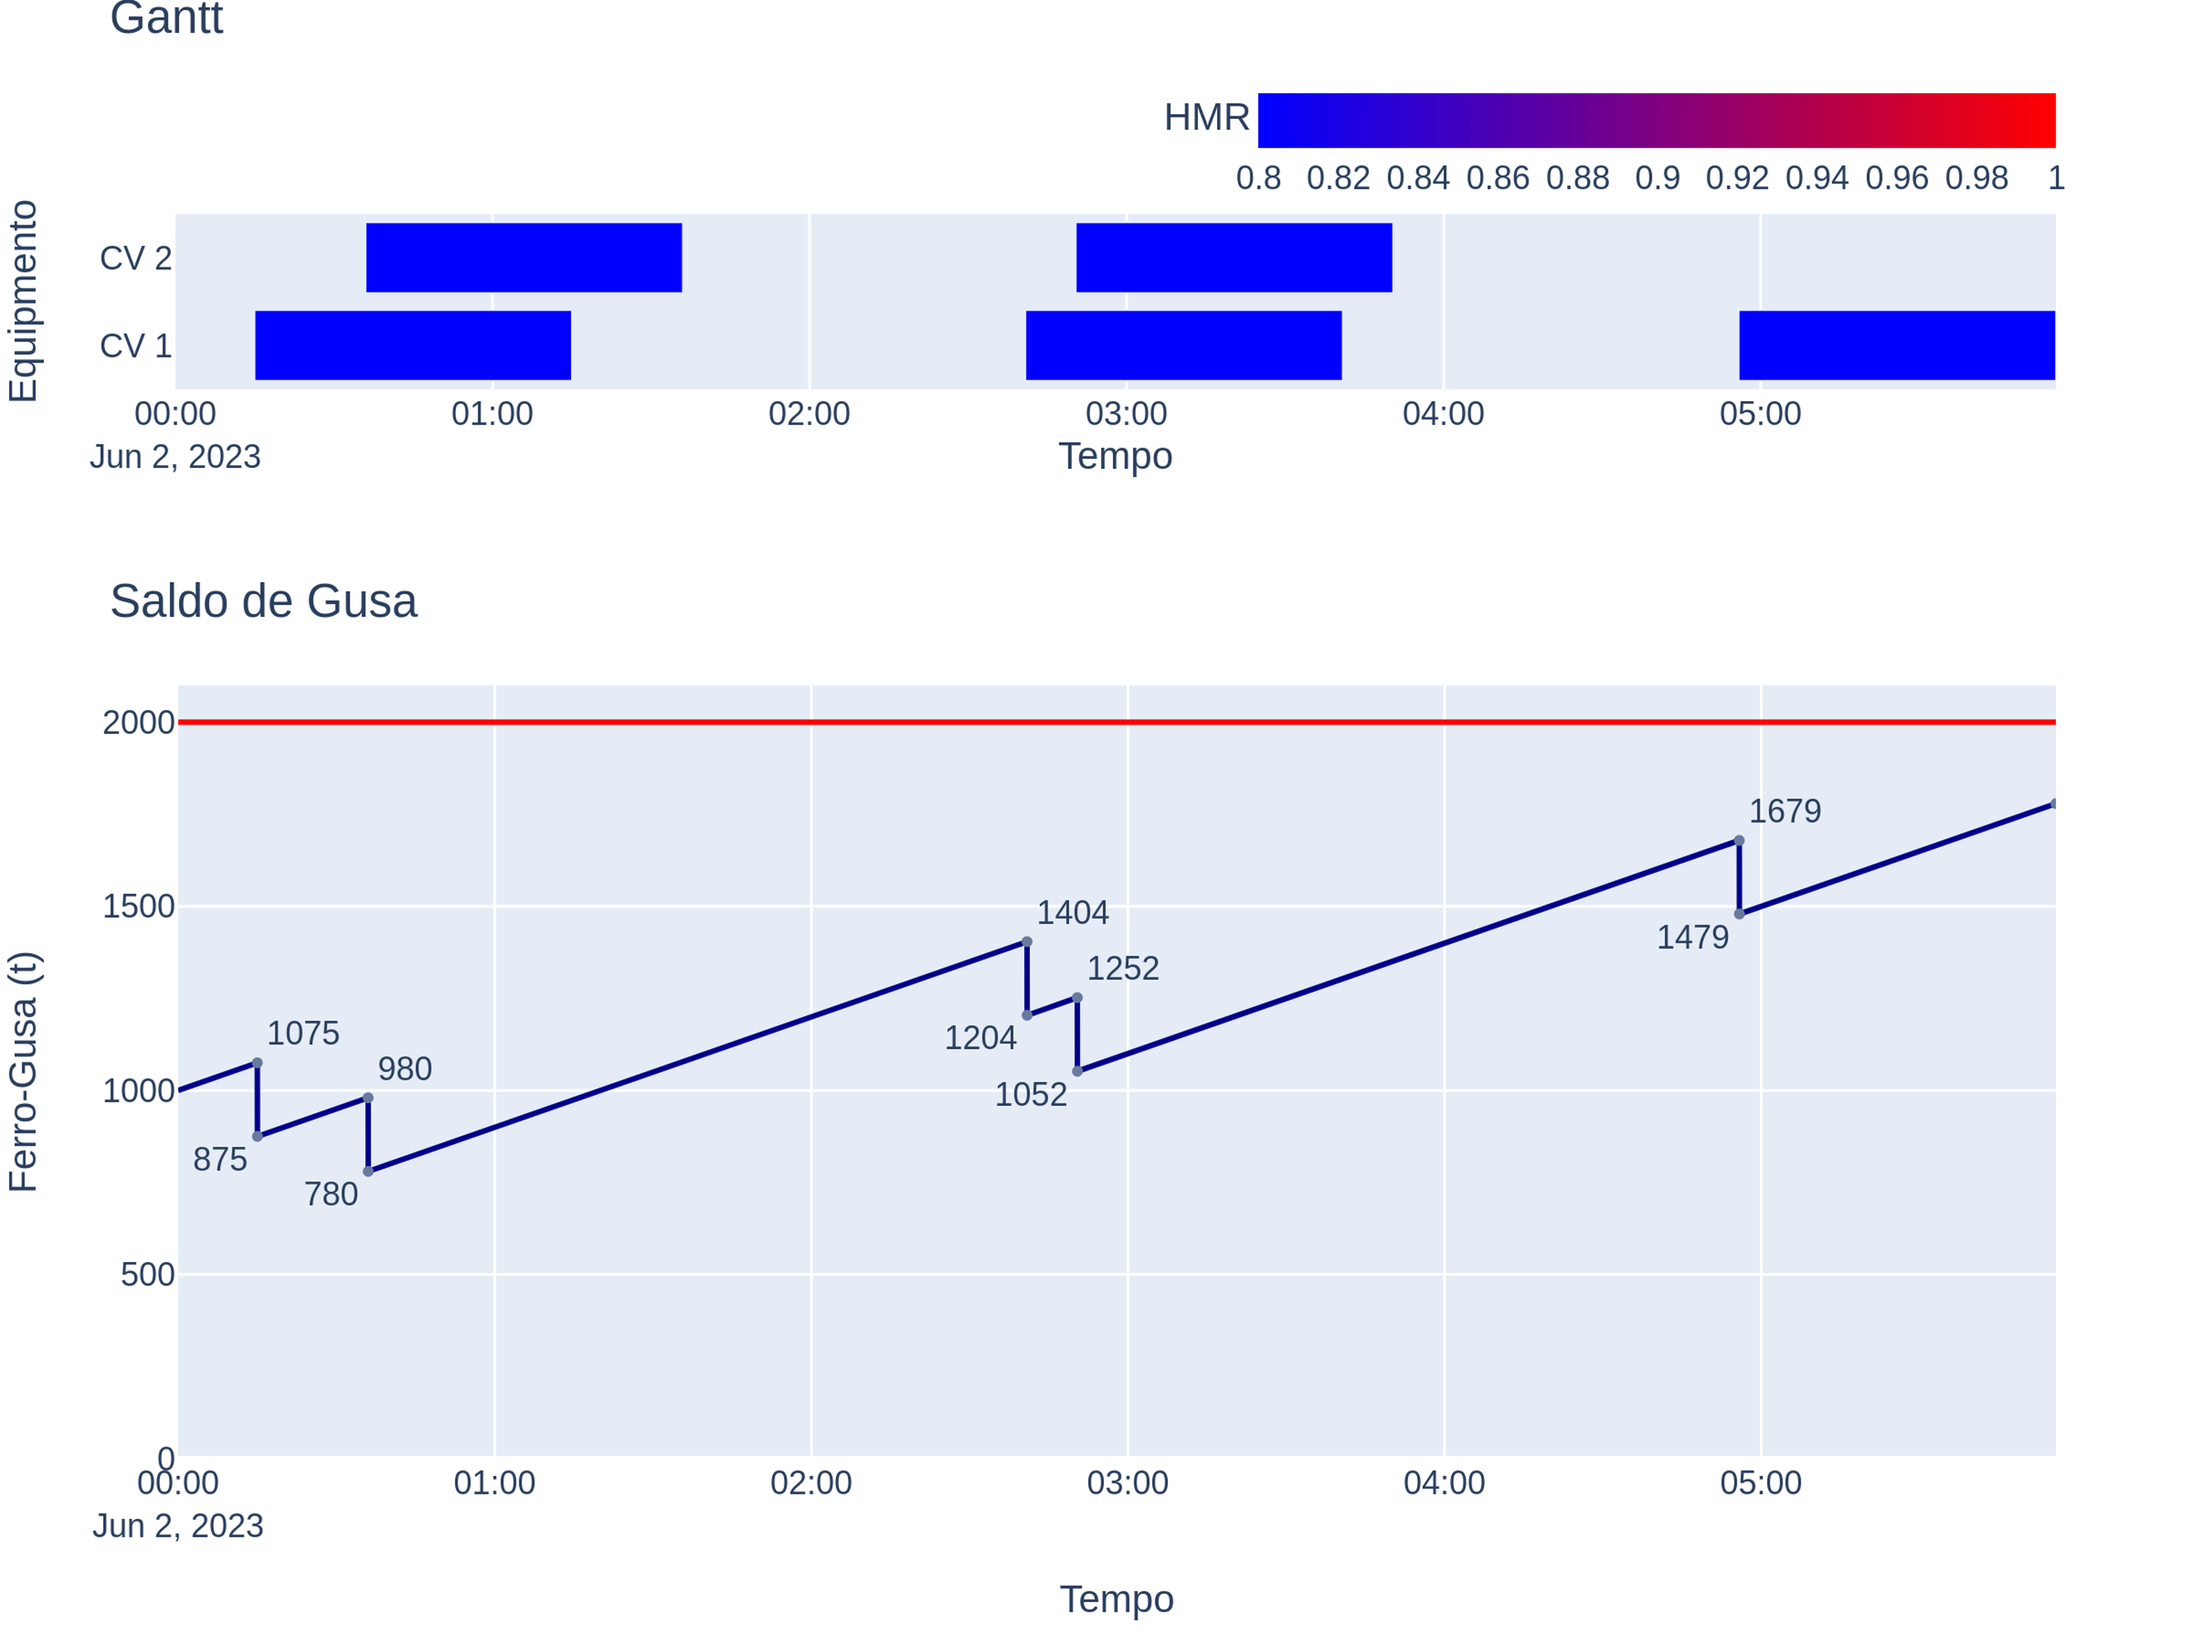
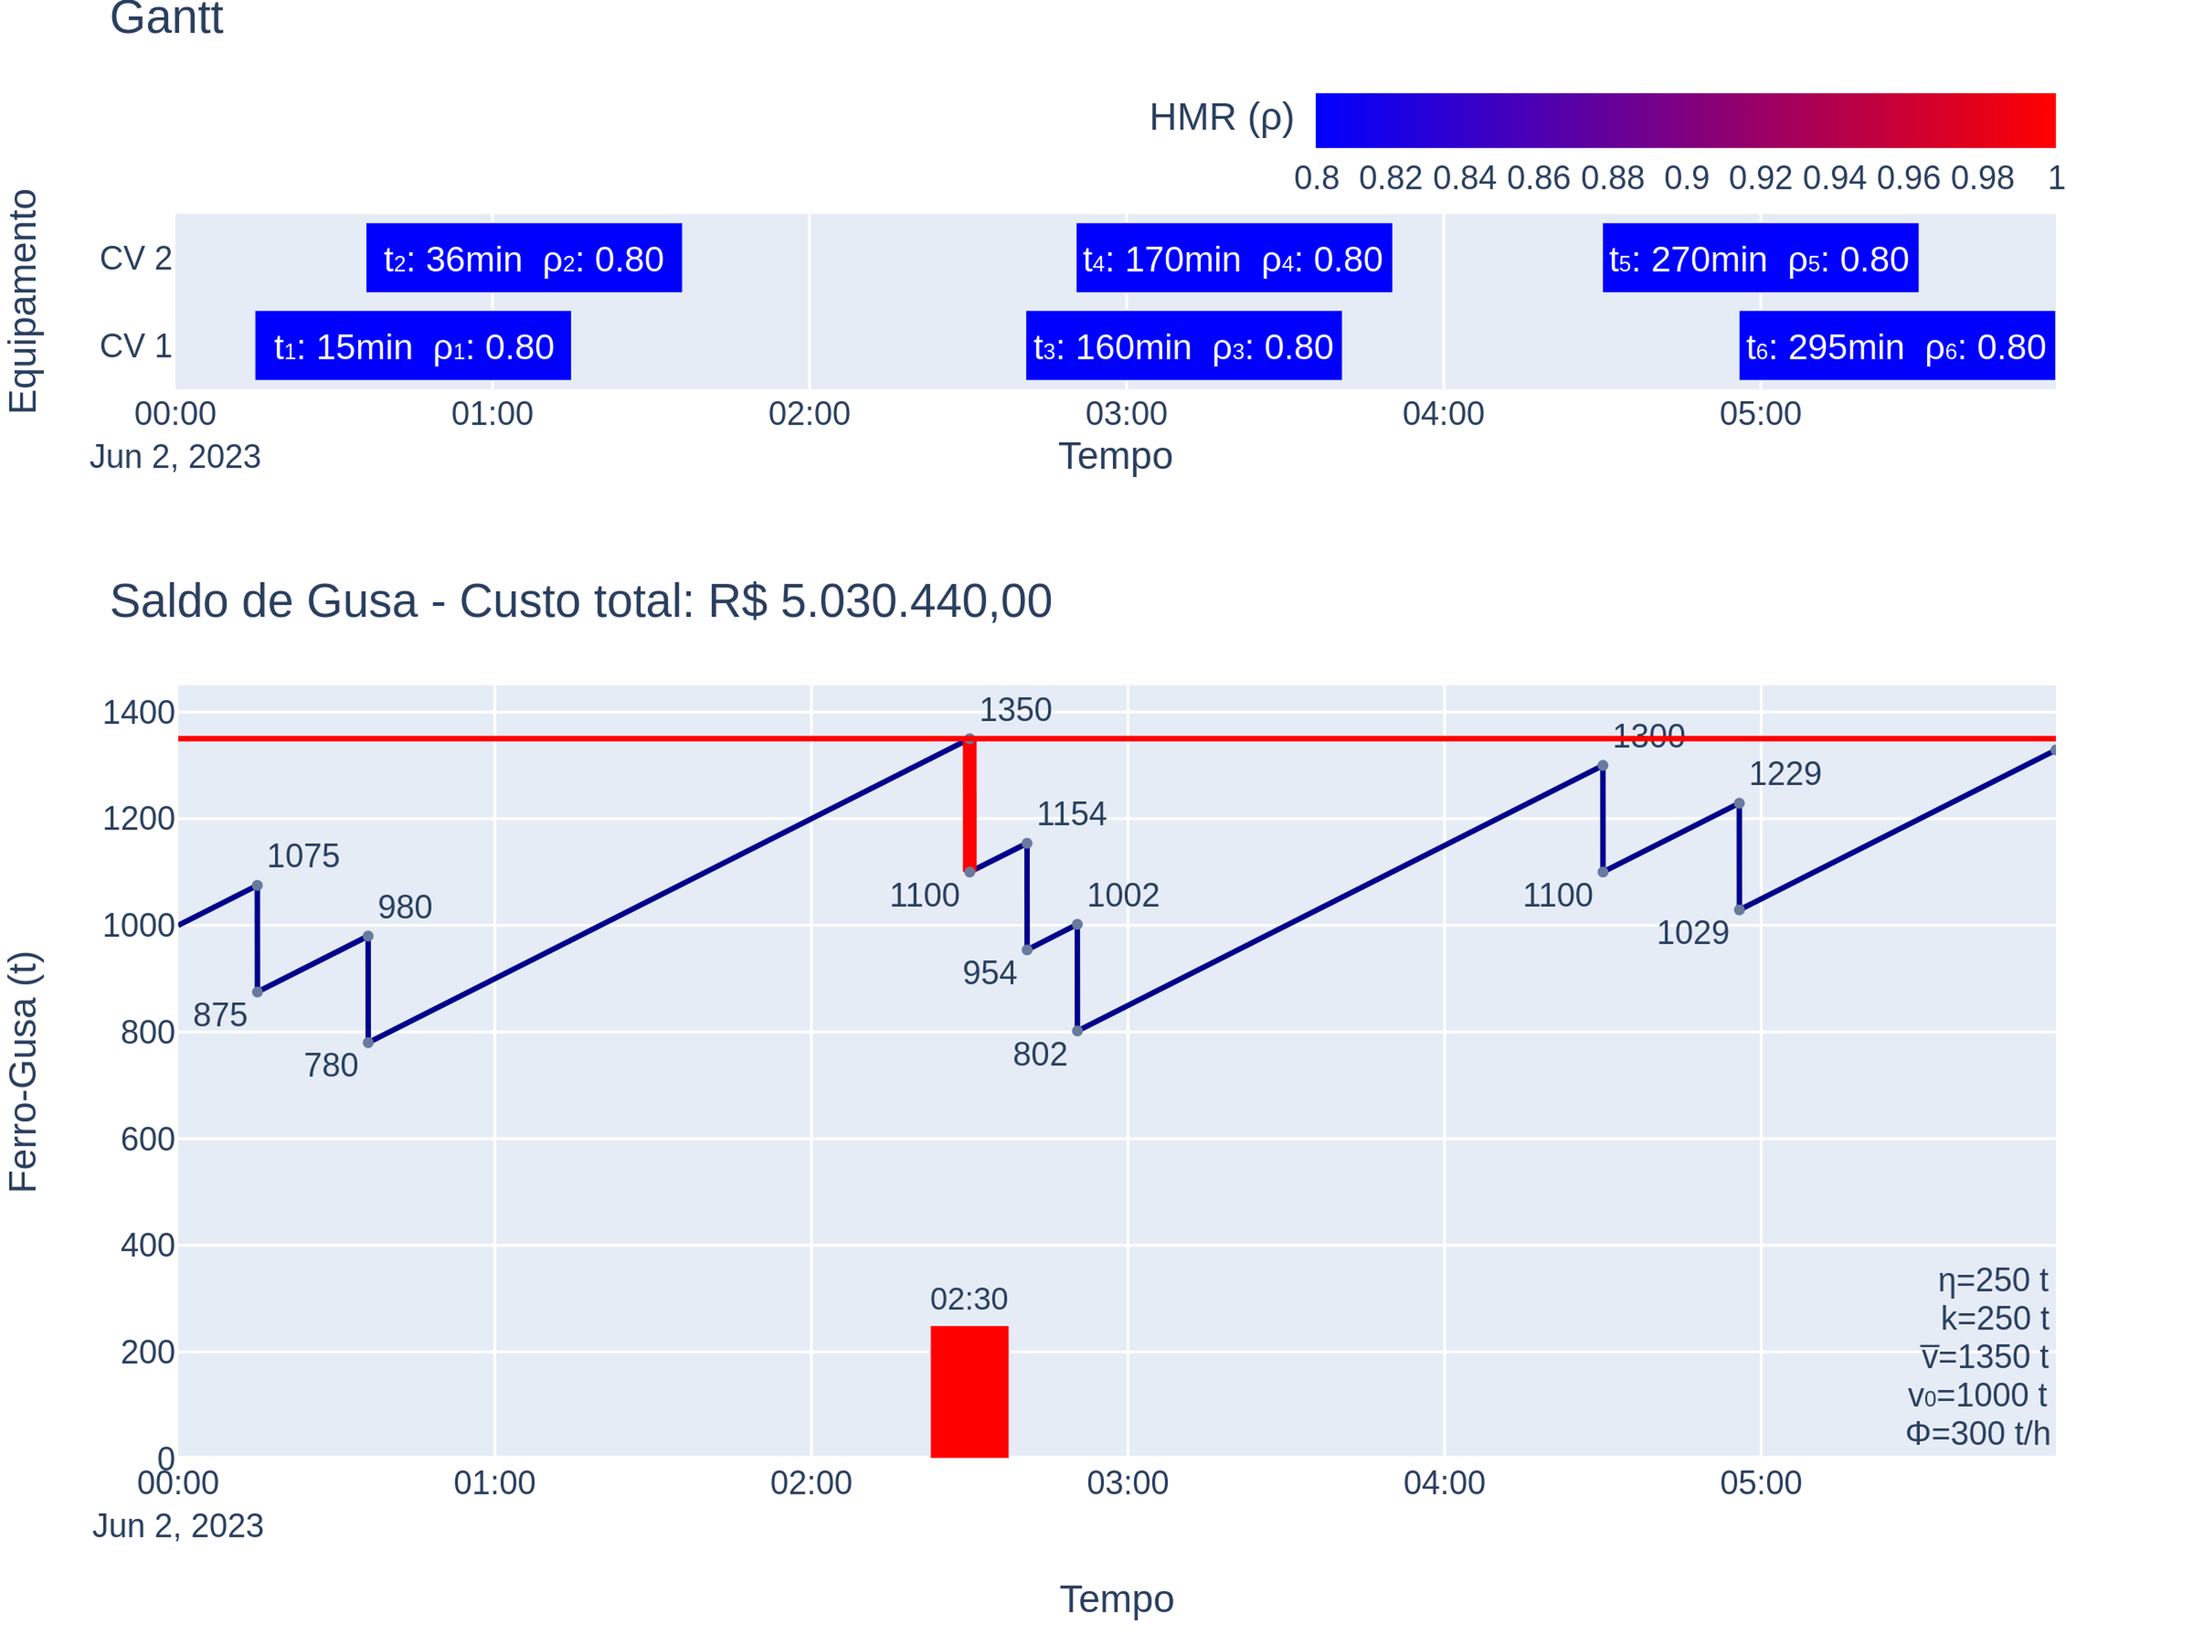
feat(*.py): add cost function to pig iron balance

diff --git a/utils/plot_interface.py b/utils/plot_interface.py
@@ -1,3 +1,4 @@
+import locale
 import os
 import plotly.colors as pc
 from sympy.parsing.latex import parse_latex
@@ -93,7 +94,7 @@ def generate_gantt_chart(initial_time, converters: list[Converter]):
     # Configure Gantt Chart layout
     fig_gantt.update_layout(
         xaxis_title="Tempo",
-        yaxis_title="Equipmento",
+        yaxis_title="Equipamento",
         showlegend=False,
         height=200,  # Increase the height by multiplying with 2
         width=800,  # Increase the width
@@ -106,15 +107,15 @@ def generate_gantt_chart(initial_time, converters: list[Converter]):
     )
 
     for i, converter in enumerate(sorted(converters, key=lambda cv: cv.time)):
-        equation = "t<span style='font-size: 8px;'>{:01d}</span>: {:02d}min  ρ<span style='font-size: 8px;'>{:01d}</span>: {:.1f}".format(
-            i + 1, int((converter.time-initial_time).total_seconds()/60), i + 1, converter.hmr
+        equation = "t<span style='font-size: 8px;'>{:01d}</span>: {:0d}min  ρ<span style='font-size: 8px;'>{:0d}</span>: {:.2f}".format(
+            i + 1, int((converter.time - initial_time).total_seconds() / 60), i + 1, converter.hmr
         )
         fig_gantt.add_annotation(
             x=converter.time + (converter.end - converter.time) / 2,
             y=converter_labels[int(converter.cv == 'cv_2')],
             text=equation,
             showarrow=False,
-            font=dict(size=14, color="white" if converter.hmr < 0.96 else 'black'),
+            font=dict(size=13, color="white" if converter.hmr < 0.96 else 'black'),
         )
     fig_gantt.update_layout(
         {
@@ -157,14 +158,18 @@ def generate_pig_iron_balance_chart(pig_iron_balance: PigIronBalance, highlighte
 
     # Generate line plot for Pig Iron Balance
     fig_saldo_gusa = go.Figure()
+    total_cost = locale.currency(pig_iron_balance.total_cost, grouping=True, symbol='R$')
 
+    title_no_profit = f"Saldo de Gusa - Custo total: {total_cost}"
+    title_profit = f"Saldo de Gusa - Custo total: {total_cost} - Lucro : {total_cost}"
+    title = title_no_profit if pig_iron_balance.profit == 0 else title_profit
     # Add line plot for Pig Iron Balance
     fig_saldo_gusa.add_trace(
         go.Scatter(
             x=df_saldo_gusa["Tempo"],
             y=df_saldo_gusa["Saldo de Gusa"],
             mode="lines",
-            name="Saldo de Gusa",
+            name=title,
             line=dict(color="darkblue", width=2),
         )
     )
@@ -201,7 +206,7 @@ def generate_pig_iron_balance_chart(pig_iron_balance: PigIronBalance, highlighte
     fig_saldo_gusa.update_layout(
         xaxis_title="Tempo",
         yaxis_title="Ferro-Gusa (t)",
-        title='Saldo de Gusa',
+        title=title,
         showlegend=False,
         height=400,
         width=800,
@@ -257,6 +262,74 @@ def generate_pig_iron_balance_chart(pig_iron_balance: PigIronBalance, highlighte
     # Set the y-axis range for the chart
     fig_saldo_gusa.update_yaxes(
         range=[0, pig_iron_balance.max_restrictive + 100]
+    )
+
+    fig_saldo_gusa.add_annotation(
+        x=1,
+        y=0.2,
+        xref="paper",
+        yref="paper",
+        text=f"η={pig_iron_balance.pig_iron_constants.torpedo_car_volume} t",
+        showarrow=False,
+        font=dict(size=12),
+        align="right",
+        xanchor="right",
+        yanchor="bottom"
+    )
+
+    fig_saldo_gusa.add_annotation(
+        x=1,
+        y=0.15,
+        xref="paper",
+        yref="paper",
+        text=f"k={pig_iron_balance.k} t",
+        showarrow=False,
+        font=dict(size=12),
+        align="right",
+        xanchor="right",
+        yanchor="bottom"
+    )
+
+    equation = "v̅={:01d} t".format(int(pig_iron_balance.max_restrictive))
+    fig_saldo_gusa.add_annotation(
+        x=1,
+        y=0.1,
+        xref="paper",
+        yref="paper",
+        text=equation,
+        showarrow=False,
+        font=dict(size=12),
+        align="right",
+        xanchor="right",
+        yanchor="bottom"
+    )
+
+    equation_2 = "v<span style='font-size: 8px;'>{:01d}</span>={:01d} t".format(0,
+                                                                                int(pig_iron_balance.initial_conditions.value))
+    fig_saldo_gusa.add_annotation(
+        x=1,
+        y=0.05,
+        xref="paper",
+        yref="paper",
+        text=equation_2,
+        showarrow=False,
+        font=dict(size=12),
+        align="right",
+        xanchor="right",
+        yanchor="bottom"
+    )
+
+    fig_saldo_gusa.add_annotation(
+        x=1,
+        y=0.0,
+        xref="paper",
+        yref="paper",
+        text=f"\u03A6={pig_iron_balance.pig_iron_hourly_production} t/h",
+        showarrow=False,
+        font=dict(size=12),
+        align="right",
+        xanchor="right",
+        yanchor="bottom"
     )
 
     # Display the chart

diff --git a/model/pig_iron_balance.py b/model/pig_iron_balance.py
@@ -1,3 +1,4 @@
+import locale
 from dataclasses import dataclass
 from datetime import datetime, timedelta
 from typing import List, Optional
@@ -99,6 +100,8 @@ class PigIronBalance:
         self.min_restrictive = 0
         self.max_hmr = 1
         self.min_hmr = 0.8
+        self.k = 250
+        self.profit = 0
         self.allow_auto_spill_events: bool = allow_auto_spill_events
         self.pig_iron_constants: PigIronConstants = PigIronConstants()
         self.pig_iron_balance: List[PigIronBalanceState] = []
@@ -253,7 +256,7 @@ class PigIronBalance:
 
         self.spill_events.append(PigIronTippingEvent(time=violation_time))
         post_spill_event_state = PigIronBalanceState(time=violation_time + timedelta(seconds=1),
-                                                     value=self.max_restrictive - self.pig_iron_constants.torpedo_car_volume)
+                                                     value=self.max_restrictive - self.pig_iron_constants.torpedo_car_volume + self.pig_iron_hourly_production / 3600)
         self.pig_iron_balance.append(post_spill_event_state)
         return post_spill_event_state.value
 
@@ -268,7 +271,7 @@ class PigIronBalance:
         """
         if type(event) == PigIronTippingEvent:
             return self.pig_iron_constants.torpedo_car_volume
-        return event.hmr * 250#self.pig_iron_constants.steel_per_run / self.pig_iron_constants.converter_efficiency
+        return event.hmr * self.k
 
     def add_new_event_to_pig_iron_balance(self, event):
         """
@@ -287,7 +290,8 @@ class PigIronBalance:
         self.pig_iron_balance.append(next_state)
 
         post_event_state = PigIronBalanceState(time=event.time + timedelta(seconds=1),
-                                               value=next_state.value - self.get_pig_iron_consumption(event) + self.pig_iron_hourly_production/3600)
+                                               value=next_state.value - self.get_pig_iron_consumption(
+                                                   event) + self.pig_iron_hourly_production / 3600)
         self.pig_iron_balance.append(post_event_state)
 
     def finish_balance(self):
@@ -323,8 +327,26 @@ class PigIronBalance:
 
         return self.pig_iron_balance
 
+    @property
+    def total_cost(self) -> str:
+        pig_iron_cost = (
+                sum(
+                    [cv.hmr * self.k for cv in self.converters]
+                ) * 3400
+                +
+                len(self.spill_events) * self.pig_iron_constants.torpedo_car_volume * 3400
+        )
+        scrap_cost = sum(
+            [
+                max(0, self.k * (1 - cv.hmr) - 3.5) for cv in self.converters
+            ]
+        ) * 360
+        total_cost = round(pig_iron_cost + scrap_cost)
+        return total_cost
+
     def optimize_hmr(self):
         self.generate_pig_iron_balance()
+        initial_cost = self.total_cost
         while self.virtual_plateaus_to_be_optimized:
             virtual_plateau = self.virtual_plateaus_to_be_optimized[0]
 
@@ -342,6 +364,8 @@ class PigIronBalance:
 
             self.generate_pig_iron_balance()
             # break
+        self.profit = initial_cost - self.total_cost
+        print(f'Total profit: {self.profit}')
 
     @property
     def virtual_plateaus_to_be_optimized(self):

diff --git a/main.py b/main.py
@@ -1,20 +1,28 @@
+import copy
 import json
 from utils.model_generator import pig_iron_balance_model
 from utils._test_case_generator import generate_test_case
 from utils.plot_interface import plot_interface
+import locale
 
+# Set the locale to Brazilian Portuguese
+locale.setlocale(locale.LC_ALL, 'pt_BR.UTF-8')
 if __name__ == '__main__':
-    ct_name = 'ct1.1'
+    ct_name = 'ct1'
 
-    generate_test_case(ct_name)
+    #generate_test_case(ct_name)
 
     # Load parameters from JSON file
     with open(f'test_cases/{ct_name}.json') as json_file:
         input_data = json.load(json_file)
 
-    pig_iron_balance = pig_iron_balance_model(input_data)
 
+
+    pig_iron_balance = pig_iron_balance_model(input_data)
     _ = pig_iron_balance.generate_pig_iron_balance()
+    # if input_data['optimize_hmr']:
+    #     opt_pig_iron_balance = copy.deepcopy(pig_iron_balance)
+    #     opt_pig_iron_balance.optimize_hmr()
 
     plot_interface(ct_name, pig_iron_balance, debug=True)
 

diff --git a/utils/_test_case_generator.py b/utils/_test_case_generator.py
@@ -11,11 +11,11 @@ def generate_test_case(ct_name):
         return None
     # Define the start and end time for the day
     start_time = datetime(2023, 6, 2, 0, 0, 0)
-    end_time = datetime(2023, 6, 2, 4, 59, 59)
+    end_time = datetime(2023, 6, 4, 4, 59, 59)
 
     # Define the time interval range between converters (1 hour to 1 hour 15 minutes)
     min_interval = timedelta(hours=1)
-    max_interval = timedelta(hours=1, minutes=90)
+    max_interval = timedelta(hours=1, minutes=500)
 
     # Generate random converter start times
     converter_start_times = []
@@ -68,7 +68,8 @@ def generate_test_case(ct_name):
         "pig_iron_hourly_production": 300,
         "max_restrictive": 2000,
         "allow_auto_spill_events": True,
-        "converter_duration": 60
+        "converter_duration": 60,
+        "optimize_hmr": False
     }
     # Save the data to a JSON file
     filename = f'test_cases/{ct_name}.json'
